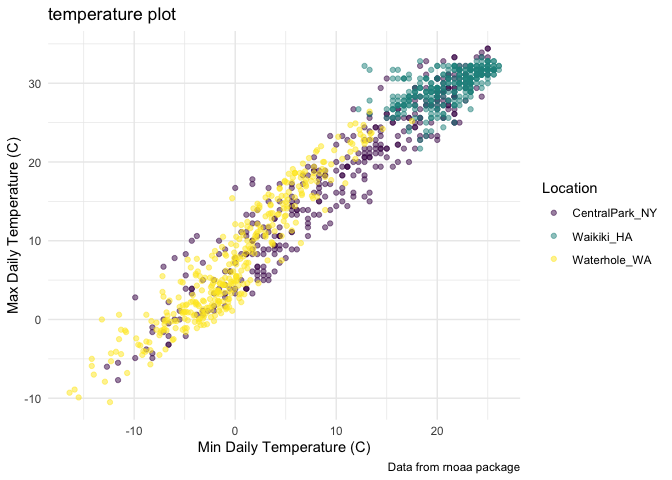
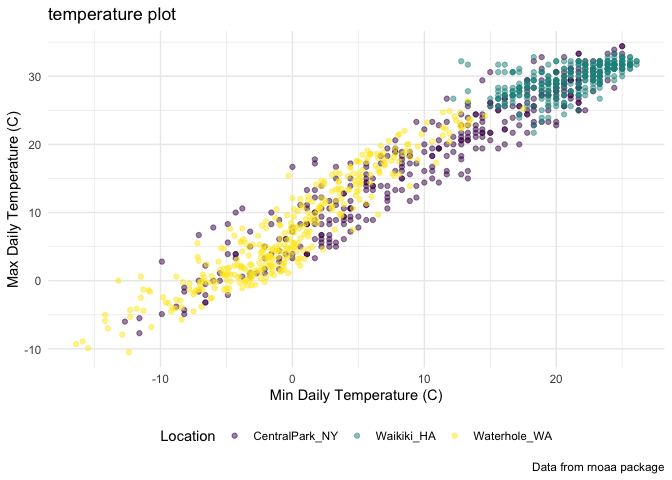
settings from now on

diff --git a/viz_and_eda_ii.md b/viz_and_eda_ii.md
@@ -214,9 +214,30 @@ weather_df %>%
   viridis::scale_color_viridis(
     name="Location",
     discrete=TRUE)+
-  theme_minimal()
+  theme_minimal()+
+  theme(legend.position="bottom")
 ```
 
     ## Warning: Removed 15 rows containing missing values (geom_point).
 
-![](viz_and_eda_ii_files/figure-gfm/unnamed-chunk-9-1.png)<!-- -->
+![](viz_and_eda_ii_files/figure-gfm/unnamed-chunk-9-1.png)<!-- --> \#\#
+Setting options
+
+``` r
+library(tidyverse)
+
+knitr::opts_chunk$set(
+  fig.width=6,
+  fig.asp= .6,
+  out.width= "90%"
+)
+theme_set(theme_minimal()+theme(legend.position="bottom"))
+
+options(
+  ggplot2.continuous.color="viridis",
+  ggplot2.continuous.fill= "viridis"
+)
+
+scale_color_discrete= scale_color_viridis_d
+scale_fill_discrete= scale_color_viridis_d
+```
